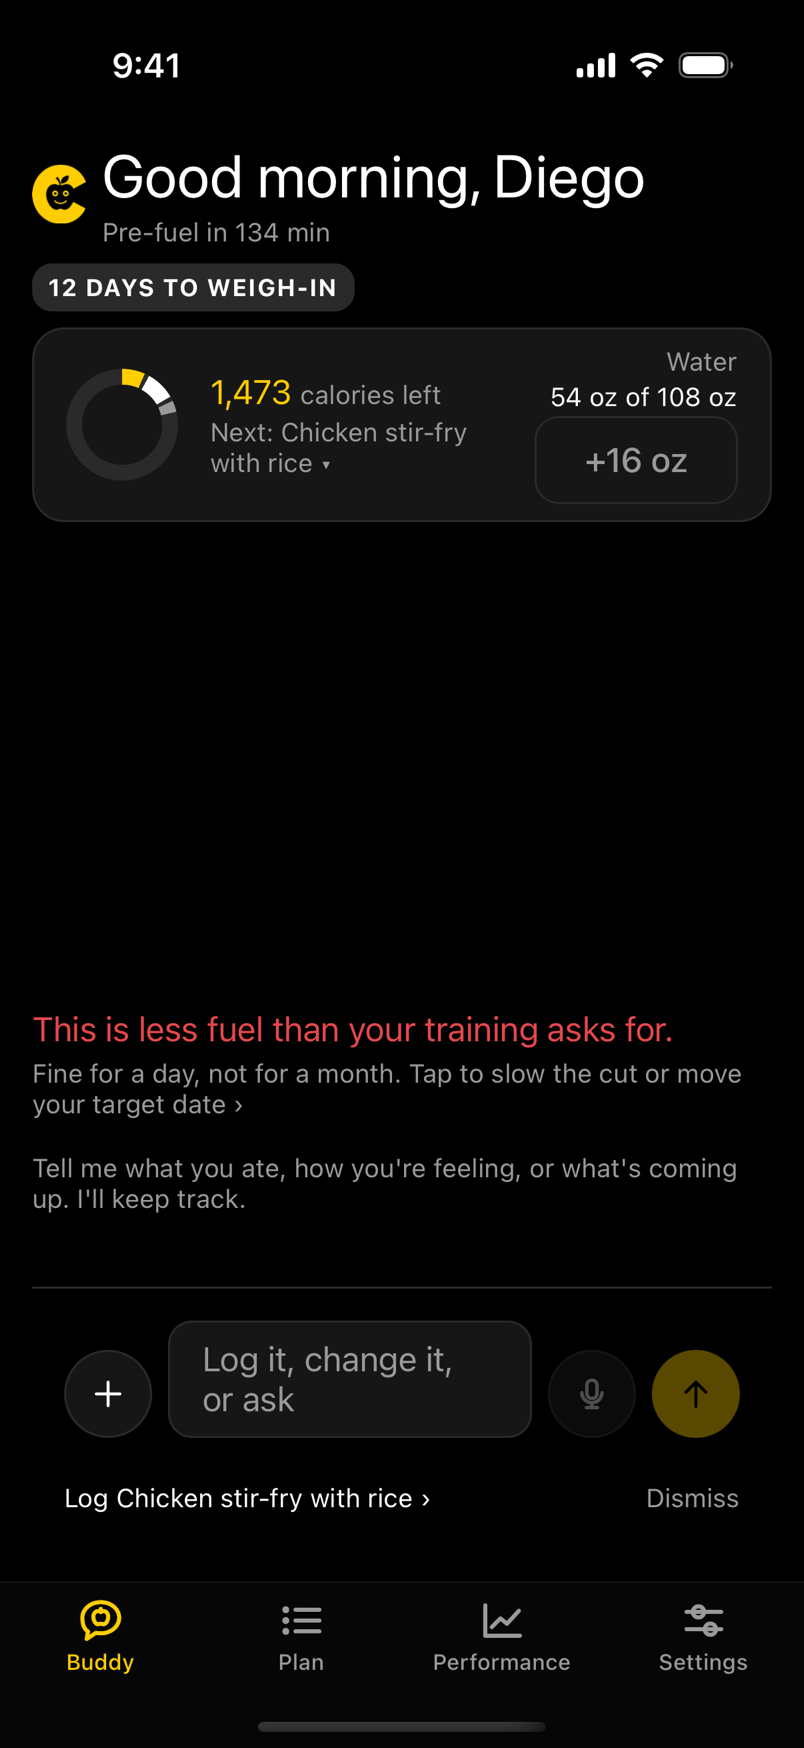
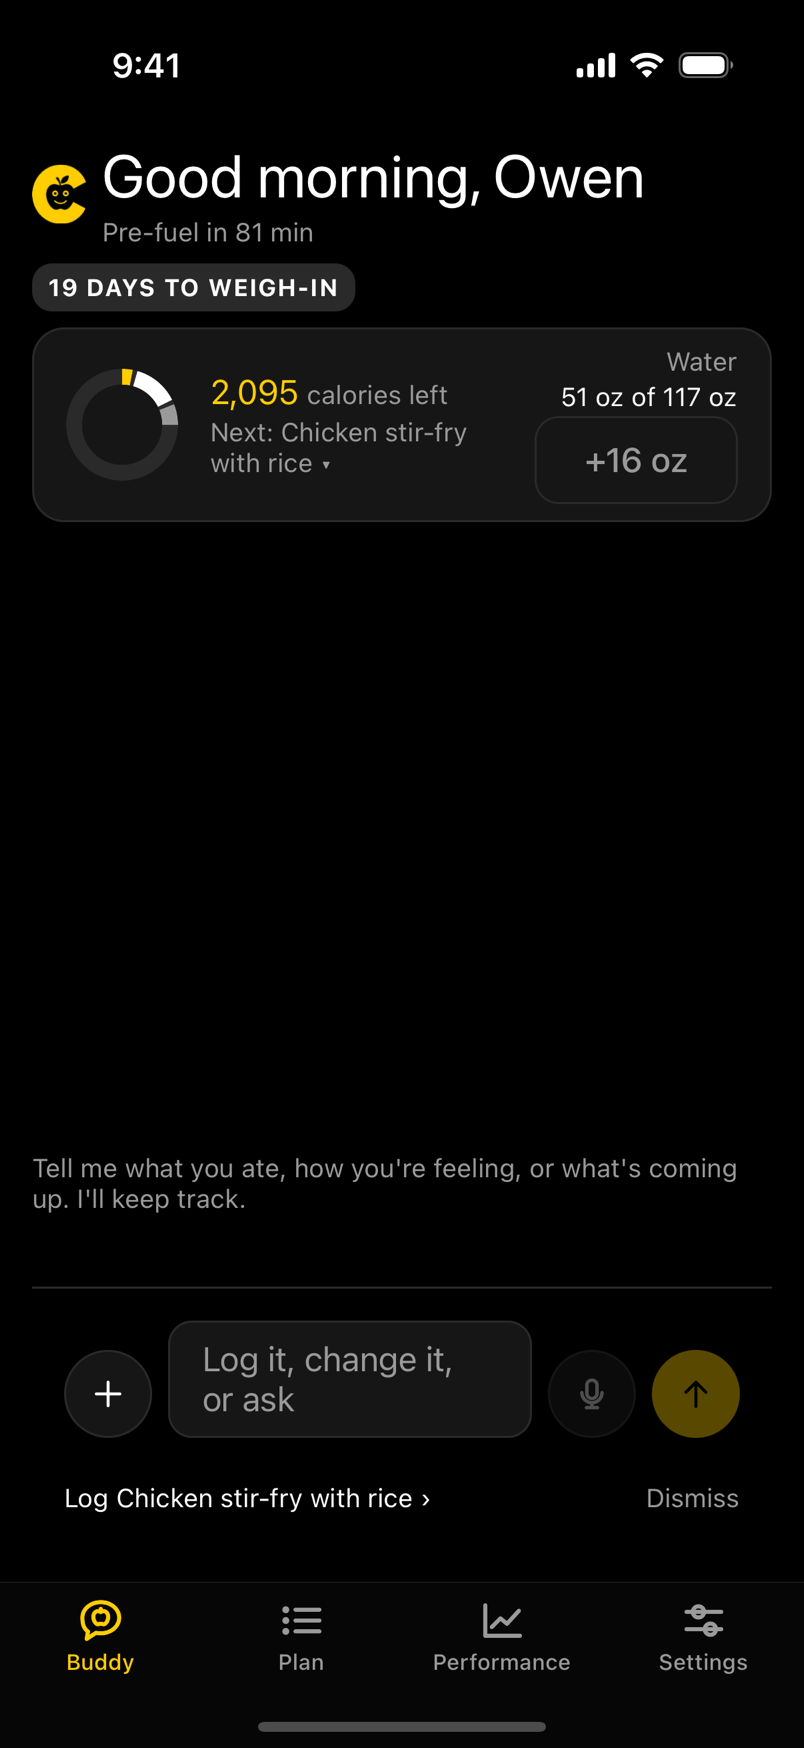
Section 2: Buddy with no warning showing; the weight chart cropped with no weight figures
- buddy.png: Owen (fictional), Buddy with no low-fuel line
- weight-chart.png replaces weight.png: the chart and its legend only; the
  big number and the lb line are outside the crop, the axis numbers and
  target label painted out in the card's colour. Card-shaped, not a phone

diff --git a/assets/screens/README.md b/assets/screens/README.md
@@ -1,7 +1,7 @@
 # App screenshots for the site
 
 From the app on the iPhone 16 Pro simulator, 21 Oct 2026, signed in to
-the demo team only: fictional people with plain names and fake, seeded data. The status bar is set to 9:41 with full signal and battery. They're
+the demo team only: fictional people with plain names and fake, seeded data. The status bar is set to 9:41 with full signal and battery. Phone screens are
 804 × 1748: twice the phone's width in points, sharp in a 402 px frame. Put
 them in `.cb-phone` (theme.css).
 
@@ -9,11 +9,13 @@ them in `.cb-phone` (theme.css).
 |---|---|---|---|
 | `plan.png` | Plan: macros left, the day's ring, breakfast logged, water | Diego Morales (fictional) | Hero; section 2 |
 | `chat.png` | Buddy: "Drank 20 oz" and its confirm card | Diego Morales (fictional) | Hero (behind, on wide screens); section 3 |
-| `weight.png` | Performance: weight against plan, 7-day average vs the plan line | Diego Morales (fictional) | Section 4 |
+| `weight-chart.png` | Performance: the weight-against-plan chart only (7-day average against the plan line). No weight figures: the big number and the lb line are outside the crop, and the axis numbers and target label are painted out | Diego Morales (fictional) | Section 4. **Card-shaped (1106 × 752), not a phone screen:** show it in a `.cb-card`, not `.cb-phone` |
 | `radar.png` | Performance: this week's score and the six areas | Diego Morales (fictional) | Section 4 |
 | `coach-roster.png` | Coach's team: Too fast, Behind, On track | Coach Dana Whitfield (fictional) | Section 6 |
-| `buddy.png` | Buddy: the greeting and the day strip | Diego Morales (fictional) | Spare; its low-fuel line is right for him, not a first impression |
+| `buddy.png` | Buddy: the greeting, pre-fuel countdown, the day strip and water. No warnings showing | Owen Fischer (fictional) | Section 2 |
 
 Show each in `.cb-phone` with a "Sample data" caption (`.cb-sample`) under
-it. Never replace these with a real account's screens. New ones come from
+it. **No weight figures anywhere on the site** (Ryan, 21 Oct): no weights, axis values or targets in any image or text.
+
+Never replace these with a real account's screens. New ones come from
 Ryan, taken the same way.
